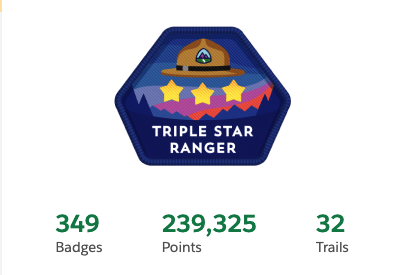
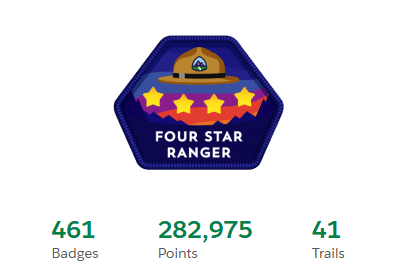
update Cert and Trailhead details

diff --git a/templates/includedTemplates/trailheadDetails.html b/templates/includedTemplates/trailheadDetails.html
@@ -9,7 +9,16 @@
             <br/>
             <div class="news-grid w3l-agile">
                 <br/>
-                <p><a href="https://trailblazer.me/id/ayusharmadev" rel="noopener" target="_blank" title="Trailhead" style='margin-left: 4%;color: #4b85cc;text-decoration: underline;'>Check out live points here</a></p>
+                <div class="col-md-6 news-text trailheadDetails">
+                    <div class="col-md-2">
+                        <p><a href="https://trailblazer.me/id/ayusharmadev" rel="noopener" target="_blank" title="Trailhead" style='margin-left: 4%;color: #4b85cc;text-decoration: underline;'>Check out live points here</a></p>
+                    </div>
+                </div>
+                <div class="col-md-6 news-text">
+                    <div class="col-md-2">
+                        <img src="{{ url_for('static', filename='images/AgentBlazerStatus.png') }}" alt="about" class='AgentBlazerStatus' />
+                    </div>
+                </div>
                 <div class="col-md-6 news-text trailheadDetails">
                     <div class="col-md-2">
                         <img src="{{ url_for('static', filename='images/trailheadChart.PNG') }}" style="height: 296px; width: 900%; object-fit: cover;" alt="about" />

diff --git a/templates/includedTemplates/certifications.html b/templates/includedTemplates/certifications.html
@@ -25,7 +25,7 @@
                 <img src="{{ url_for('static', filename='images/pardotCert.png') }}" alt="Pardot Specialist"/>
             </div>
             <div class="col-md-4 cert">
-                <img src="{{ url_for('static', filename='images/platform-developer-1.png') }}" alt="Salesforce PD 1"/>
+                <img src="{{ url_for('static', filename='images/experienceCloudConsultantCert.png') }}" alt="Experience Cloud Consultant"/>
             </div>
             <div class="clearfix"></div>
         </div>
@@ -34,7 +34,9 @@
             <div class="col-md-4 cert">
                 <img src="{{ url_for('static', filename='images/platform-app-builder.png') }}" alt="Salesforce App Builder"/>
             </div>
-            <div class="col-md-1 cert"></div>
+            <div class="col-md-4 cert">
+                <img src="{{ url_for('static', filename='images/platform-developer-1.png') }}" alt="Salesforce PD 1"/>
+            </div>
             <div class="col-md-4 cert">
                 <img src="{{ url_for('static', filename='images/administrator.png') }}" alt="Salesforce Administrator"/>
             </div>

diff --git a/templates/includedTemplates/footer.html b/templates/includedTemplates/footer.html
@@ -58,7 +58,7 @@
             <div class="clearfix"></div>
         </div>
         <div class="copy_right text-center">
-            <p class="float-left">&copy; 2024 Profile of Ayush Sharma</p>
+            <p class="float-left">&copy; 2026 Profile of Ayush Sharma</p>
             <p class="float-right">Design on top of <a href="http://w3layouts.com/" target="_blank">W3layouts.</a></p>
             <ul class="hero__social">
                 <li>
